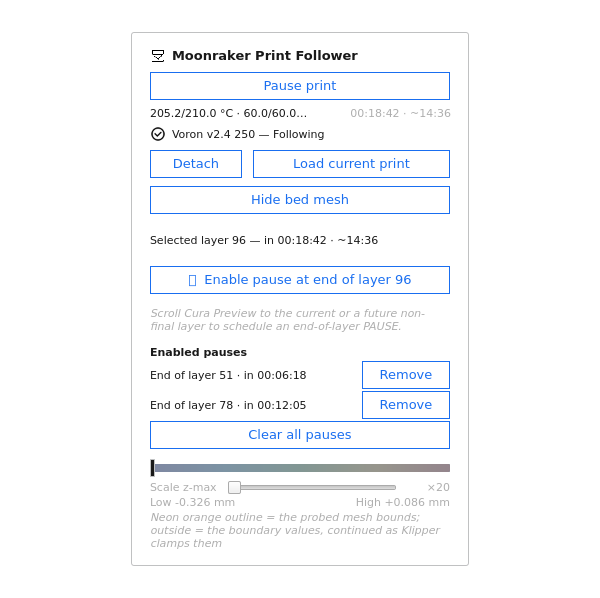
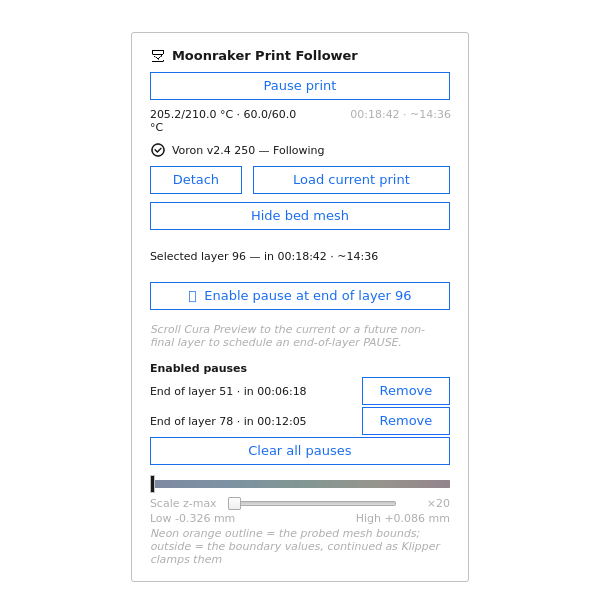
4.3.0 strip and fans: the temps/slot row sizes from its labels' line height — the theme's point-sized default font made the pixelSize-bound row collapse to a clipped 10 px line box (the gate's census measured chopped 7 px glyphs) — and the fans section carries its harness address; the preview-panel 

Changed region(s): [[0.24, 0.3913, 0.78, 0.9632], [0.24, 0.0301, 0.78, 0.3612]]

diff --git a/plugins/MoonrakerPreviewCard.qml b/plugins/MoonrakerPreviewCard.qml
@@ -224,7 +224,11 @@ Item {
 
             Row {
                 width: parent.width
-                height: UM.Theme.getFont("default").pixelSize
+                // The row sizes from its labels' natural line height:
+                // the theme's default font is point-sized (pixelSize
+                // reads -1), so a pixelSize-bound row collapsed to the
+                // clipped line box and chopped the glyphs (the gate's
+                // census measured a 10 px row with 7 px ink).
                 spacing: base.buttonSpacing
 
                 UM.Label {
@@ -234,7 +238,6 @@ Item {
                     // °C" ≈ 149 px at the default font) fits with
                     // slack; the labelled form never did.
                     width: 160 * screenScaleFactor
-                    height: parent.height
                     color: UM.Theme.getColor("text")
                     font: UM.Theme.getFont("default")
                     verticalAlignment: Text.AlignVCenter
@@ -255,7 +258,6 @@ Item {
                     id: stripSlot
                     objectName: "moonrakerStripSlot"
                     width: 130 * screenScaleFactor
-                    height: parent.height
                     horizontalAlignment: Text.AlignRight
                     color: UM.Theme.getColor("text_inactive")
                     font: UM.Theme.getFont("default")

diff --git a/plugins/FansSection.qml b/plugins/FansSection.qml
@@ -11,6 +11,9 @@ import Cura 1.1 as Cura
 ColumnLayout {
     id: root
     spacing: 0
+    // The harness address (the s8 track-click scenario scrolls the
+    // section into view before pressing the fan slider).
+    objectName: "moonrakerFansSection"
     property var printerModel: null
     property bool freezeRepeaters: false
     property var frozenItems: []
